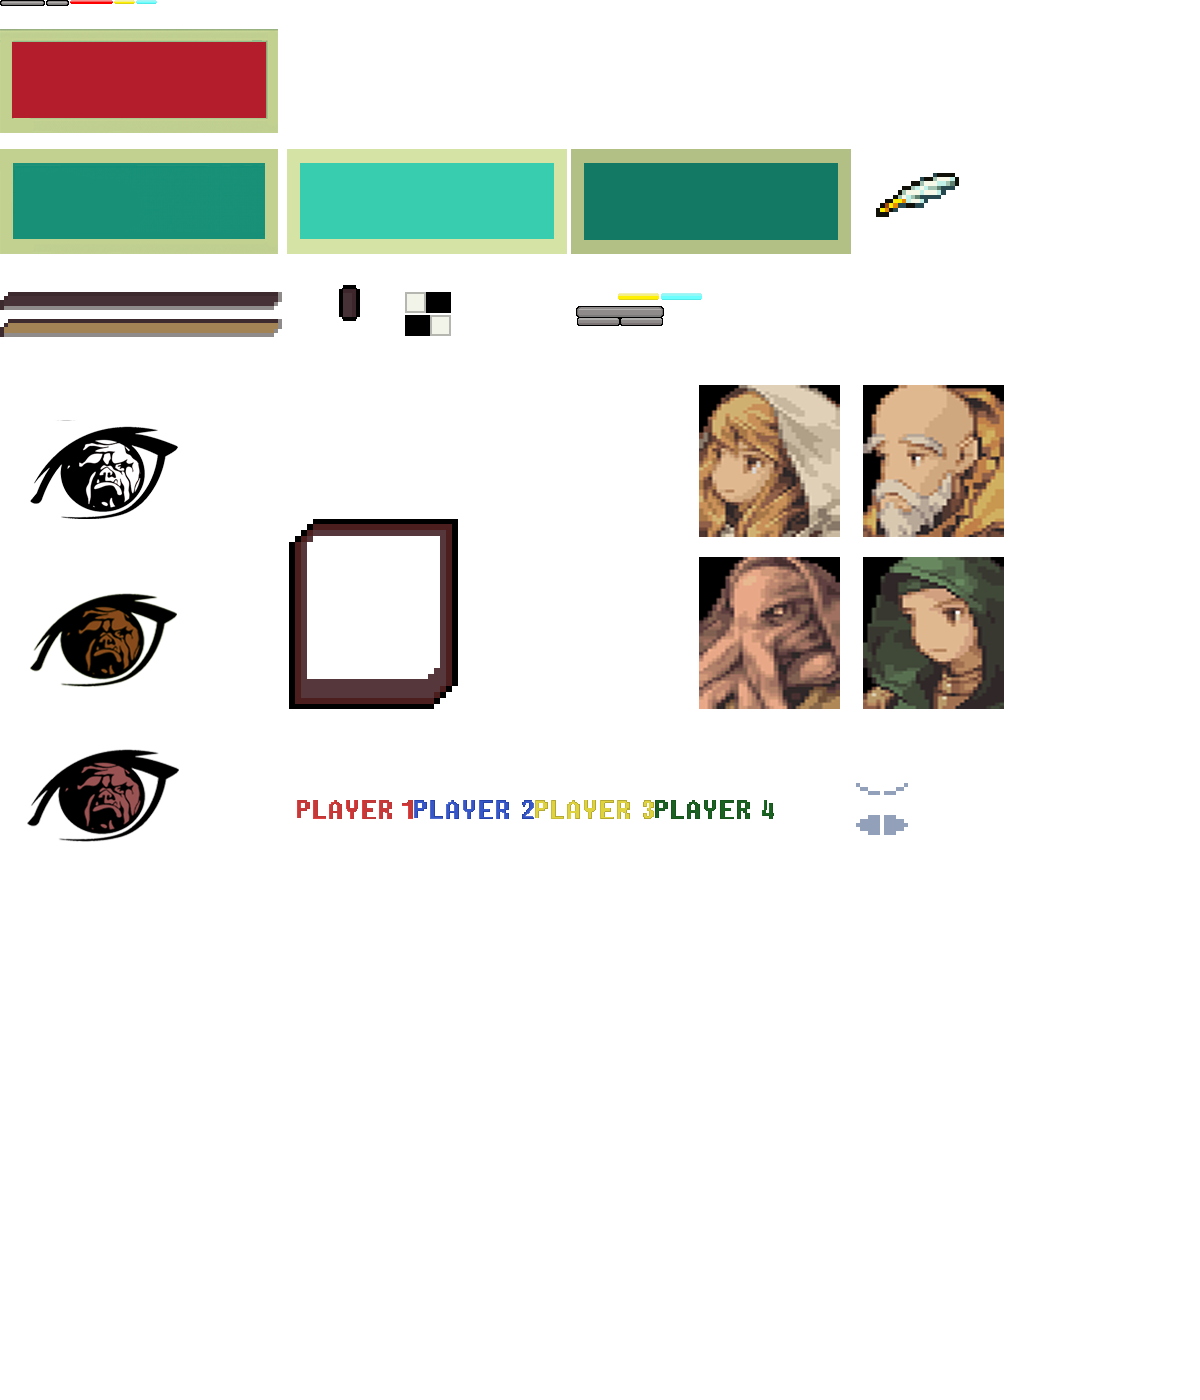
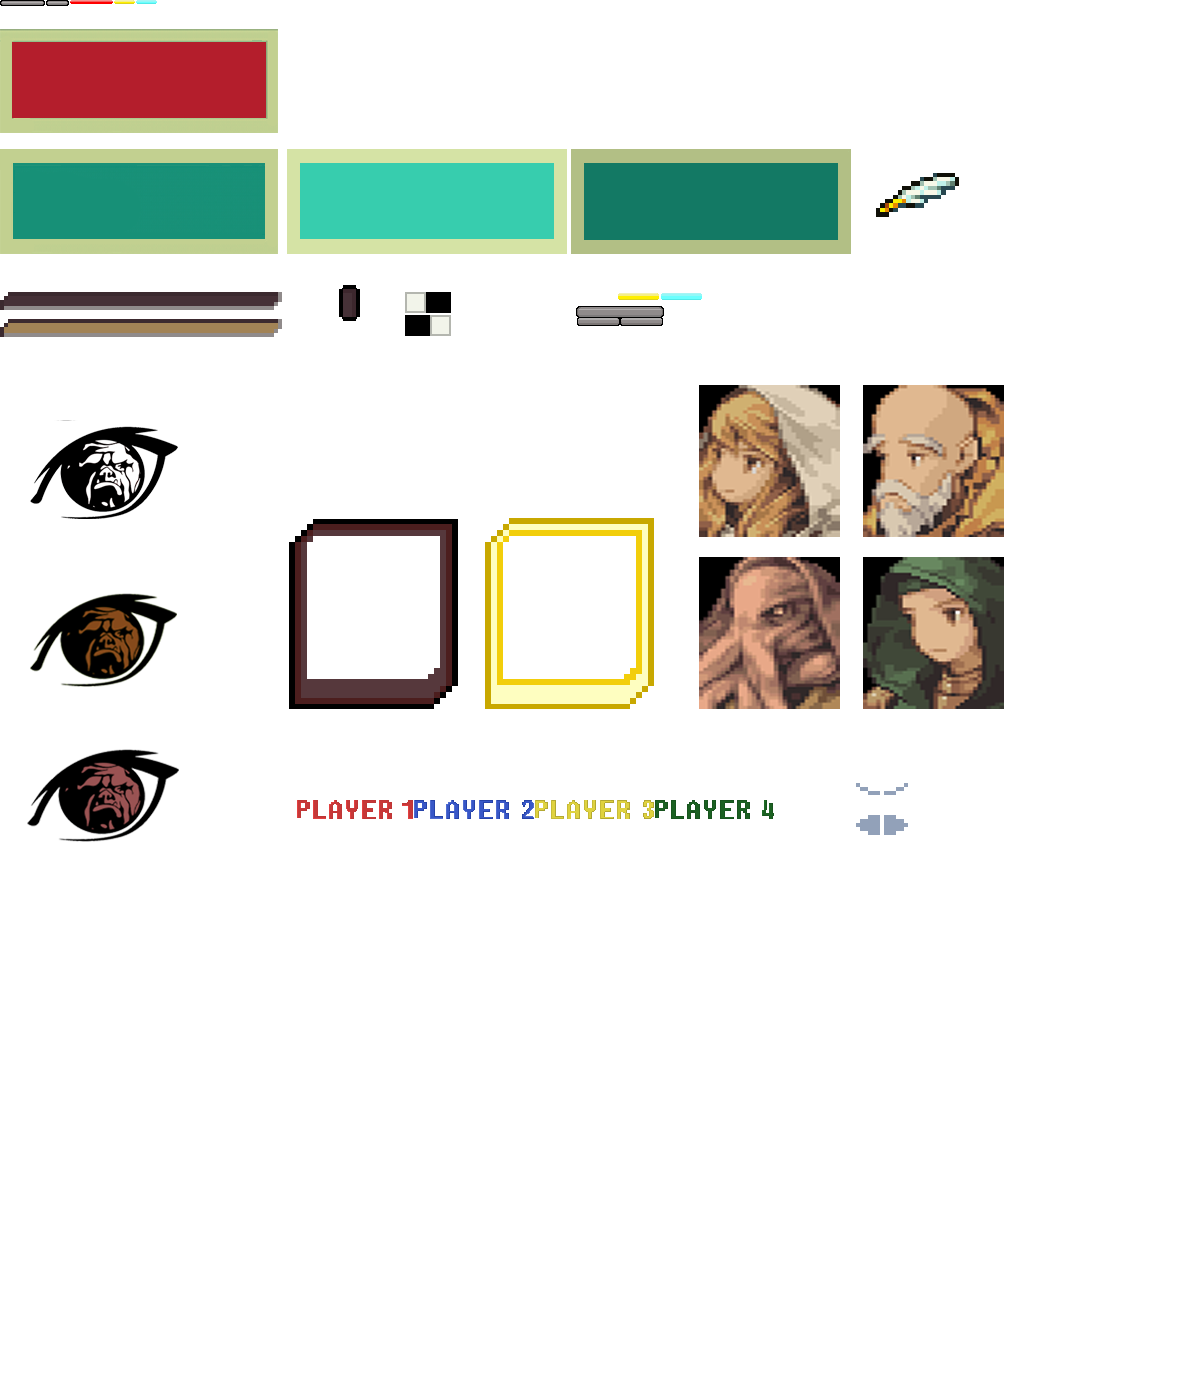
Added yellow selection marks and fixed logical reset bug

Changed region(s): [[0.4008, 0.3686, 0.555, 0.5221]]

diff --git a/FantasyBrawl_Project/Motor2D/j1Gui.cpp b/FantasyBrawl_Project/Motor2D/j1Gui.cpp
@@ -336,14 +336,14 @@ bool j1Gui::PreUpdate()
 					App->ui_scene->champ_selected[i] = true;
 					App->audio->PlayFx(App->audio->fxConfirmChamp);
 
-					if (i == 0)
-						App->ui_scene->player1_quad->section = { 494, 518, 170,191 };
-					if (i == 1)
-						App->ui_scene->player2_quad->section = { 494, 518, 170,191 };
-					if (i == 2)
-						App->ui_scene->player3_quad->section = { 494, 518, 170,191 };
-					if (i == 3)
-						App->ui_scene->player4_quad->section = { 494, 518, 170,191 };
+					if (i == 0 && App->ui_scene->marks_reset == true)
+						App->ui_scene->player1_quad->section = { 484, 518, 170,191 };
+					if (i == 1 && App->ui_scene->marks_reset == true)
+						App->ui_scene->player2_quad->section = { 484, 518, 170,191 };
+					if (i == 2 && App->ui_scene->marks_reset == true)
+						App->ui_scene->player3_quad->section = { 484, 518, 170,191 };
+					if (i == 3 && App->ui_scene->marks_reset == true)
+						App->ui_scene->player4_quad->section = { 484, 518, 170,191 };
 					
 					}
 					else if (App->ui_scene->champ_selected[i] == true && App->input->GetButton((PLAYER)i, SDL_CONTROLLER_BUTTON_B) == BUTTON_DOWN)
@@ -351,7 +351,7 @@ bool j1Gui::PreUpdate()
 						App->ui_scene->champ_selected[i] = false;
 						App->audio->PlayFx(App->audio->fxCancelChamp);
 
-						if (i == 0)
+						if (i == 0 )
 							App->ui_scene->player1_quad->section = { 288, 518, 170,191 };
 						if (i == 1)
 							App->ui_scene->player1_quad->section = { 288, 518, 170,191 };

diff --git a/FantasyBrawl_Project/Motor2D/j1UIScene.cpp b/FantasyBrawl_Project/Motor2D/j1UIScene.cpp
@@ -1085,7 +1085,14 @@ bool j1UIScene::Update(float dt)
 
 	}
 
-	
+	//MARKS RESET AND LOGIC
+	if (marks_reset == false)
+	{
+		player1_quad->section = { 288, 518, 170,191 };
+		player2_quad->section = { 288, 518, 170,191 };
+		player3_quad->section = { 288, 518, 170,191 };
+		player4_quad->section = { 288, 518, 170,191 };
+	}
 
 	//Champion selection locking
 	for (int i = 0; i < MAX_GAMEPADS; ++i)
@@ -1206,6 +1213,7 @@ bool j1UIScene::OnUIEvent(UI_element* element, event_type event_type)
 			player2_select = false;
 			player3_select = false;
 			player4_select = false;
+			marks_reset = true;
 
 			// --- Reset everything ---
 			App->scene->ResetAll();
@@ -1248,6 +1256,8 @@ bool j1UIScene::OnUIEvent(UI_element* element, event_type event_type)
 		}
 		case INGAME:
 		{		
+			
+
 			if (actual_menu == SELECTION_MENU)
 			{
 				App->view->SetViews(4);
@@ -1435,6 +1445,7 @@ bool j1UIScene::OnUIEvent(UI_element* element, event_type event_type)
 			if (actual_menu == INGAMESETTINGS_MENU && previous_menu == INGAME_MENU)
 			{
 				App->on_GamePause = false;
+				marks_reset = false;
 				App->arena_interactions->DestroyStorm();
 				App->transition->menuTransition(START_MENU, 0.3);
 				actual_menu = START_MENU;

diff --git a/FantasyBrawl_Project/Motor2D/j1UIScene.h b/FantasyBrawl_Project/Motor2D/j1UIScene.h
@@ -193,7 +193,8 @@ public:
 	UI_element* player2_quad = nullptr;
 	UI_element* player3_quad = nullptr;
 	UI_element* player4_quad = nullptr;
-	
+	bool marks_reset = false;
+
 	//timer
 	UI_element* timer = nullptr;
 };
